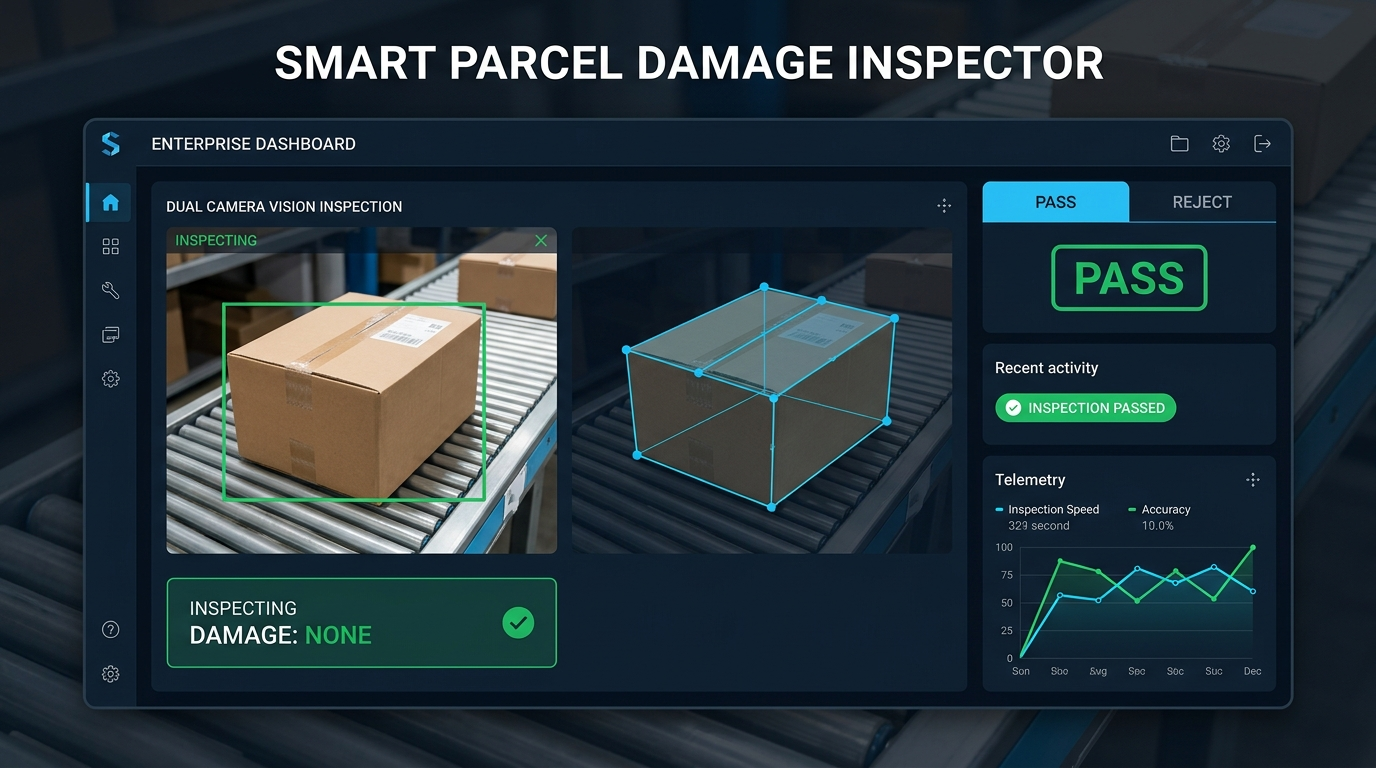
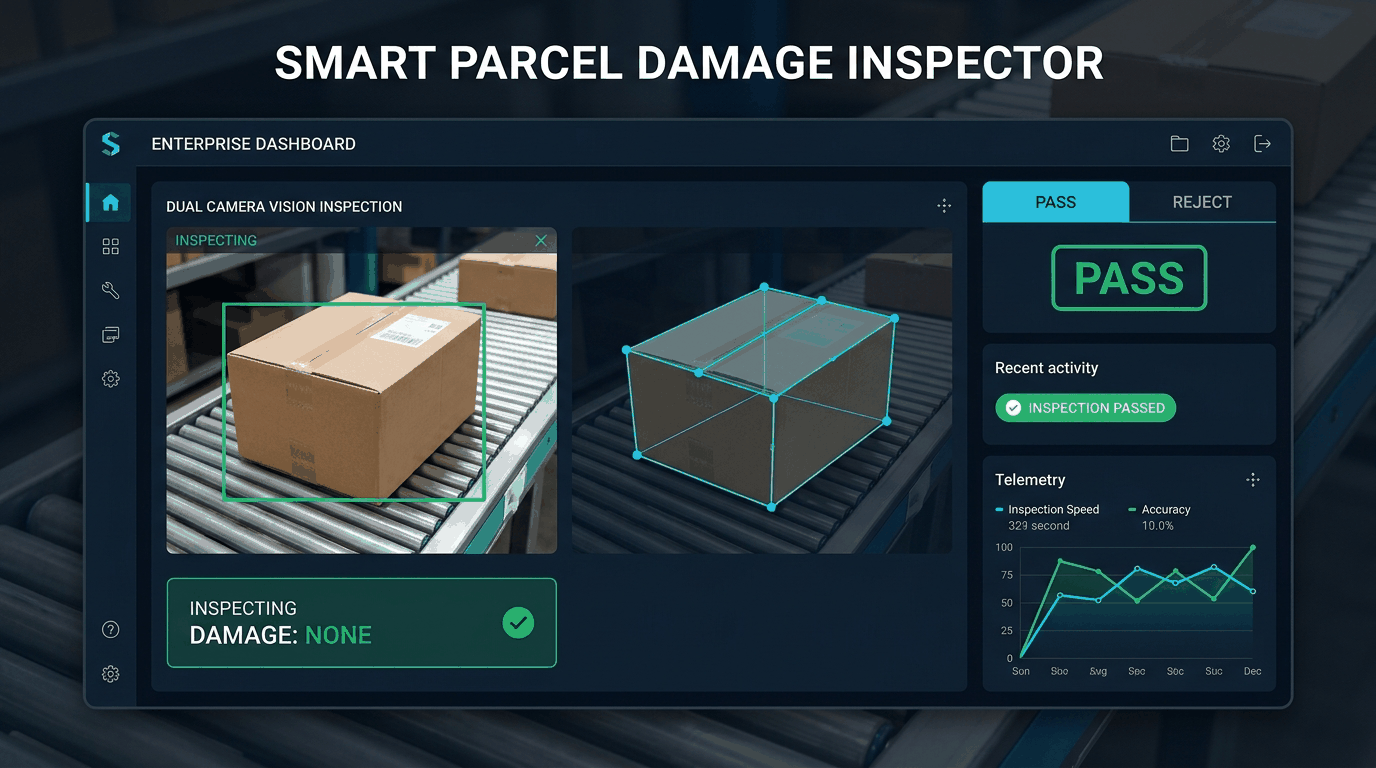
fix(seo): update open graph meta tags and optimize OG image file size for chat previews

diff --git a/index.html b/index.html
@@ -20,8 +20,8 @@
     <meta property="og:url" content="https://ai-parcel-box-damage-detection-system.vercel.app/" />
     <meta property="og:title" content="Smart Parcel Damage Inspector & Integrity Sorter" />
     <meta property="og:description" content="Industrial Edge AI & IoT Dashboard for real-time parcel damage detection, CiRA CORE vision telemetry & pneumatic sorting." />
-    <meta property="og:image" content="https://ai-parcel-box-damage-detection-system.vercel.app/og-image-v2.png" />
-    <meta property="og:image:secure_url" content="https://ai-parcel-box-damage-detection-system.vercel.app/og-image-v2.png" />
+    <meta property="og:image" content="https://ai-parcel-box-damage-detection-system.vercel.app/og-image.png" />
+    <meta property="og:image:secure_url" content="https://ai-parcel-box-damage-detection-system.vercel.app/og-image.png" />
     <meta property="og:image:type" content="image/png" />
     <meta property="og:image:width" content="1200" />
     <meta property="og:image:height" content="630" />
@@ -33,7 +33,7 @@
     <meta name="twitter:url" content="https://ai-parcel-box-damage-detection-system.vercel.app/" />
     <meta name="twitter:title" content="Smart Parcel Damage Inspector & Integrity Sorter" />
     <meta name="twitter:description" content="Industrial Edge AI & IoT Dashboard for real-time parcel damage detection, CiRA CORE vision telemetry & pneumatic sorting." />
-    <meta name="twitter:image" content="https://ai-parcel-box-damage-detection-system.vercel.app/og-image-v2.png" />
+    <meta name="twitter:image" content="https://ai-parcel-box-damage-detection-system.vercel.app/og-image.png" />
 
     <!-- Google Fonts -->
     <link rel="preconnect" href="https://fonts.googleapis.com">
